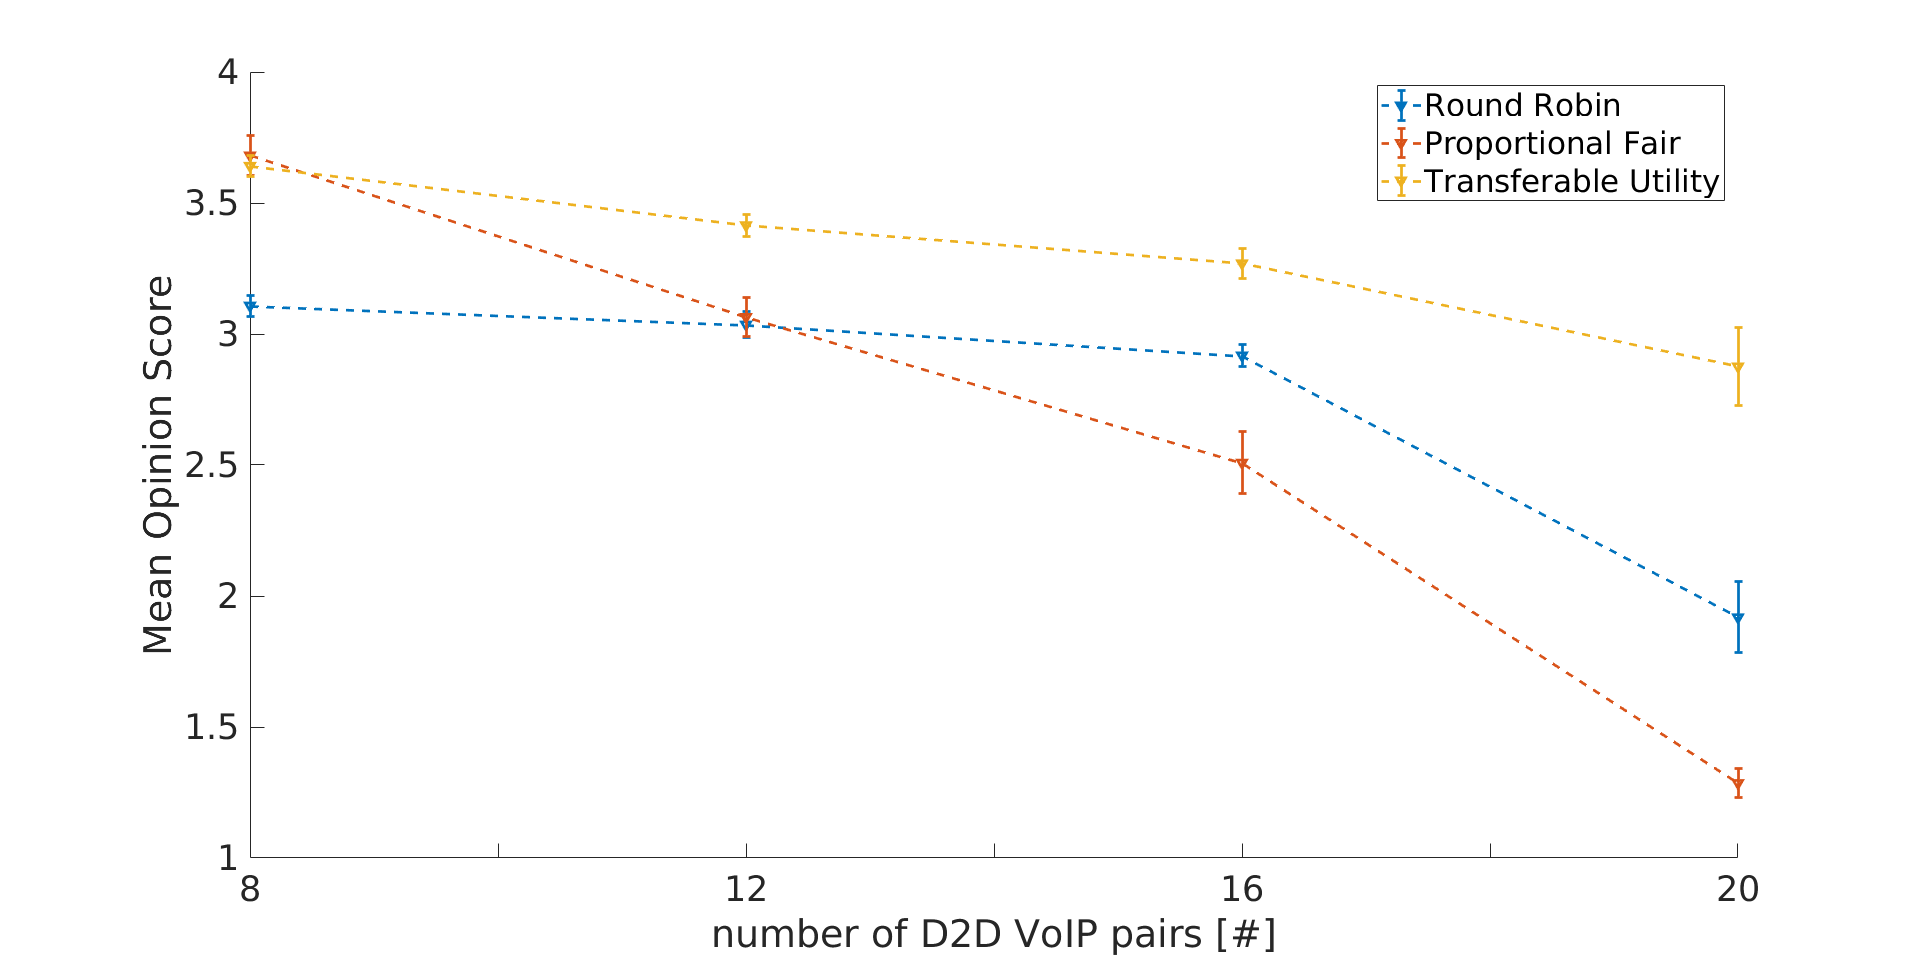
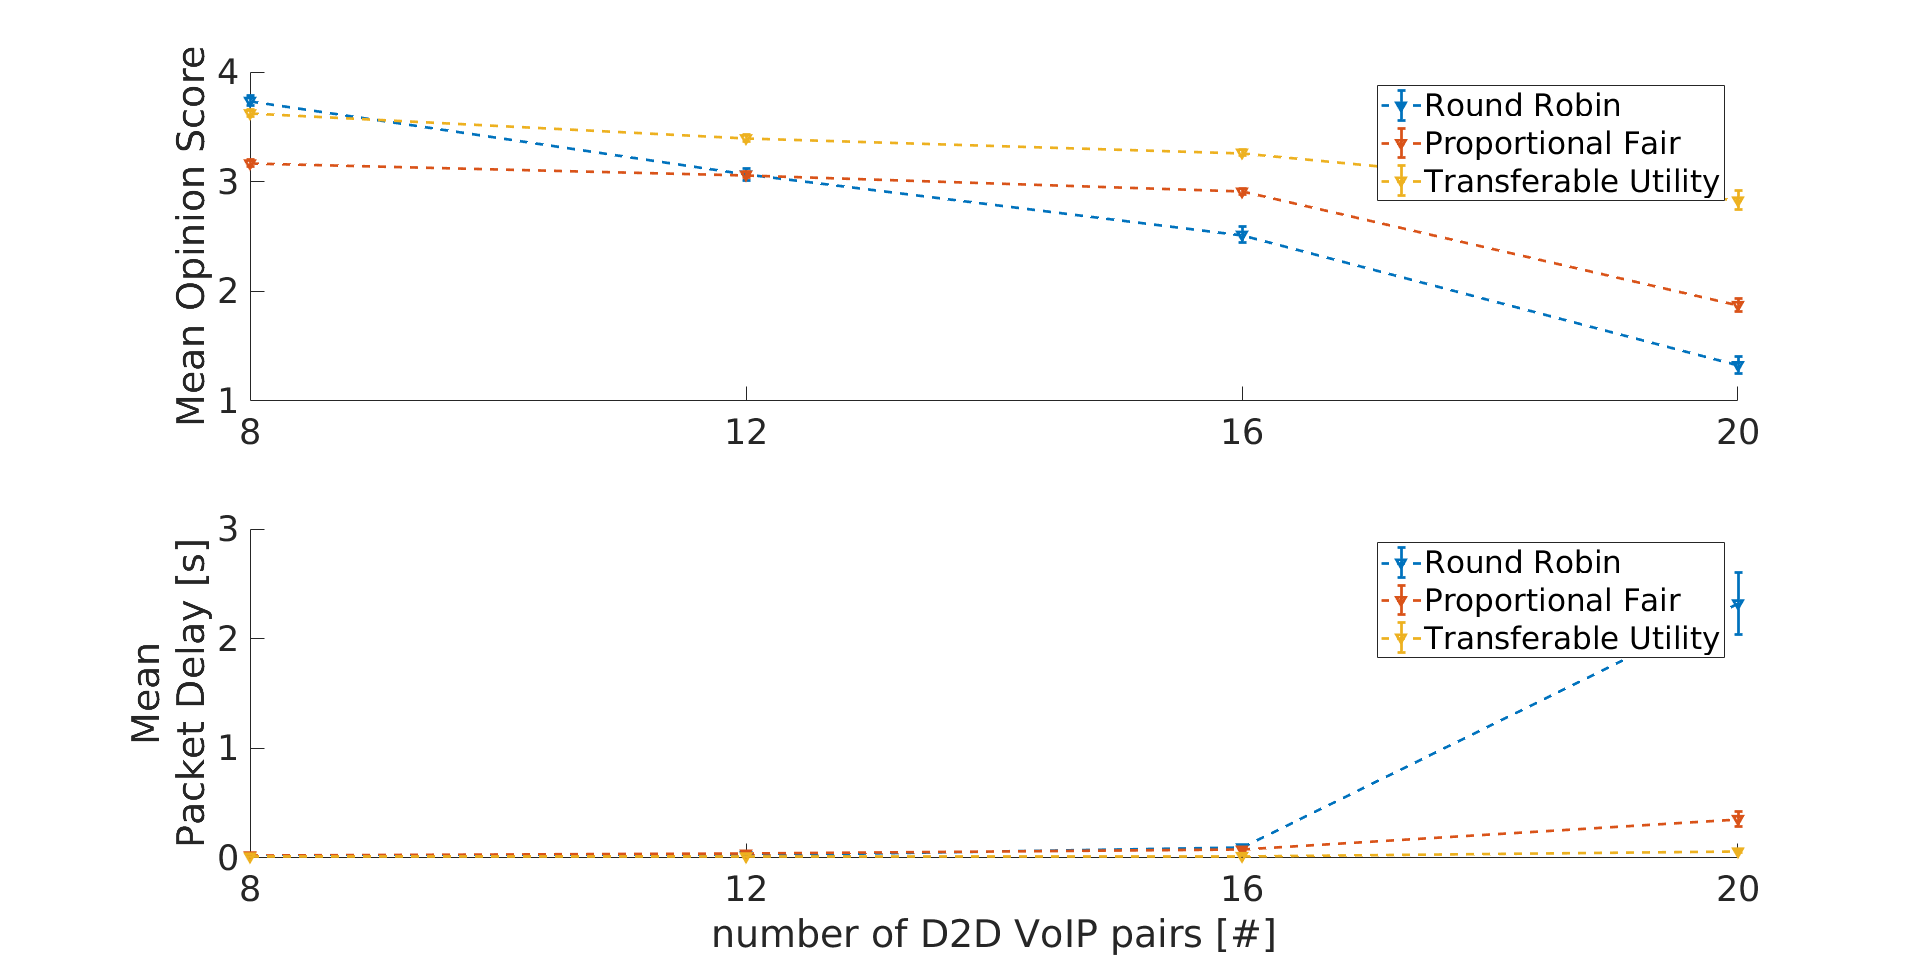
TU VOIP written out, includes delay now, had swapped PF and RR

diff --git a/frequency-reuse/evaluation/plots/analysis_vid_vs_fulbuf_d2d_fairness.m b/frequency-reuse/evaluation/plots/analysis_vid_vs_fulbuf_d2d_fairness.m
@@ -1,0 +1,65 @@
+reps = 15;
+N = 4:2:10;
+filenamesRR = {};
+filenamesPF = {};
+filenamesTU = {};
+
+filenamesRR_fulbuf = {};
+filenamesPF_fulbuf = {};
+filenamesTU_fulbuf = {};
+
+for i=1:size(N,2)
+    n = N(i);
+    for rep=0:(reps - 1)                                
+        filenamesRR(i, rep+1) = {strcat('../../results/TU-VID-VS-FULBUF-RR/n', int2str(n), '_rep', int2str(rep), '.sca.vid')};   
+        filenamesPF(i, rep+1) = {strcat('../../results/TU-VID-VS-FULBUF-PF/n', int2str(n), '_rep', int2str(rep), '.sca.vid')};           
+        filenamesTU(i, rep+1) = {strcat('../../results/TU-VID-VS-FULBUF-TU/n', int2str(n), '_rep', int2str(rep), '.sca.vid')};           
+        
+        filenamesRR_fulbuf(i, rep+1) = {strcat('../../results/TU-VID-VS-FULBUF-RR/n', int2str(n), '_rep', int2str(rep), '.sca.fulbuf')};   
+        filenamesPF_fulbuf(i, rep+1) = {strcat('../../results/TU-VID-VS-FULBUF-PF/n', int2str(n), '_rep', int2str(rep), '.sca.fulbuf')};           
+        filenamesTU_fulbuf(i, rep+1) = {strcat('../../results/TU-VID-VS-FULBUF-TU/n', int2str(n), '_rep', int2str(rep), '.sca.fulbuf')};           
+    end    
+end
+
+vidVecRR = zeros(size(N, 2), 1);
+vidVecPF = zeros(size(N, 2), 1);
+vidVecTU = zeros(size(N, 2), 1);
+
+fulbufVecRR = zeros(size(N, 2), 1);
+fulbufVecPF = zeros(size(N, 2), 1);
+fulbufVecTU = zeros(size(N, 2), 1);
+ 
+for i=1:size(N, 2)
+    vidVecRR(i) = getFairnessVec(filenamesRR(i,:));    
+    vidVecPF(i) = getFairnessVec(filenamesPF(i,:));        
+    vidVecTU(i) = getFairnessVec(filenamesTU(i,:));       
+    
+    fulbufVecRR(i) = getFairnessVec(filenamesRR_fulbuf(i,:));    
+    fulbufVecPF(i) = getFairnessVec(filenamesPF_fulbuf(i,:));        
+    fulbufVecTU(i) = getFairnessVec(filenamesTU_fulbuf(i,:));       
+end
+
+figure;
+subplot(2, 1, 1);
+hold on;
+title('3 video streamers performance');
+ylabel({'throughput sum';'3 video streamers'});
+plot(N, vidVecPF(:), '--v', 'LineWidth', 2);
+plot(N, vidVecRR(:), '--v', 'LineWidth', 2);
+plot(N, vidVecTU(:), '--v', 'LineWidth', 2);
+legend({'Round Robin', 'Proportional Fair', 'Transferable Utility'}, 'Location','northeast');
+xticklabels({'4', '', '6', '', '8', '', '10'});
+set(gca,'FontSize', 26);
+
+subplot(2, 1, 2);
+hold on;
+title('n full buffer users performance');
+ylabel({'throughput sum';'n full buffer users'});
+xlabel('number of D2D full-buffer pairs n [#]');
+plot(N, fulbufVecRR(:), '--v', 'LineWidth', 2);
+plot(N, fulbufVecPF(:), '--v', 'LineWidth', 2);
+plot(N, fulbufVecTU(:), '--v', 'LineWidth', 2);
+legend({'Round Robin', 'Proportional Fair', 'Transferable Utility'}, 'Location','northeast');
+xticklabels({'4', '', '6', '', '8', '', '10'});
+set(gca,'FontSize', 26);
+hold off;

diff --git a/frequency-reuse/evaluation/plots/analysis_stackelcompare_tu_modded_p_study.m b/frequency-reuse/evaluation/plots/analysis_stackelcompare_tu_modded_p_study.m
@@ -1,0 +1,34 @@
+reps = 5;
+n = 10;
+pVec = 0:0.1:1;
+filenamesD2D = {};
+filenamesCell = {};
+
+for i=1:size(pVec,2)
+    p = pVec(i);
+    for rep=0:(reps - 1)                                
+        filenamesD2D(i, rep+1) = {strcat('../../results/stackelcompare_tu_modded_p_study/n', int2str(n), '_p', num2str(p), '_rep', int2str(rep), '.sca.d2d')};   
+        filenamesCell(i, rep+1) = {strcat('../../results/stackelcompare_tu_modded_p_study/n', int2str(n), '_p', num2str(p), '_rep', int2str(rep), '.sca.cell')};   
+    end    
+end
+
+throughputMatD2D = zeros(size(pVec, 2), 3);
+throughputMatCell = zeros(size(pVec, 2), 3);
+ 
+for i=1:size(pVec, 2)
+    [throughputMatD2D(i, 1), throughputMatD2D(i, 2), throughputMatD2D(i, 3)] = getMeanVec(filenamesD2D(i,:));    
+    [throughputMatCell(i, 1), throughputMatCell(i, 2), throughputMatCell(i, 3)] = getMeanVec(filenamesCell(i,:));        
+end
+
+figure;
+hold on;
+ylabel({'Overall';'Mean Opinion Score'});
+% ylim([3 4.5]);
+errorbar(pVec, throughputMatCell(:, 1), throughputMatCell(:, 2), throughputMatCell(:, 3), '--v', 'LineWidth', 2);
+errorbar(pVec, throughputMatD2D(:, 1), throughputMatD2D(:, 2), throughputMatD2D(:, 3), '--v', 'LineWidth', 2);
+% xticks(N);
+% xticklabels(N);
+legend({'Cellular VoIP users', 'D2D VoIP users'}, 'Location', 'east', 'FontSize', 26);
+set(gca,'FontSize', 26);
+
+hold off;
